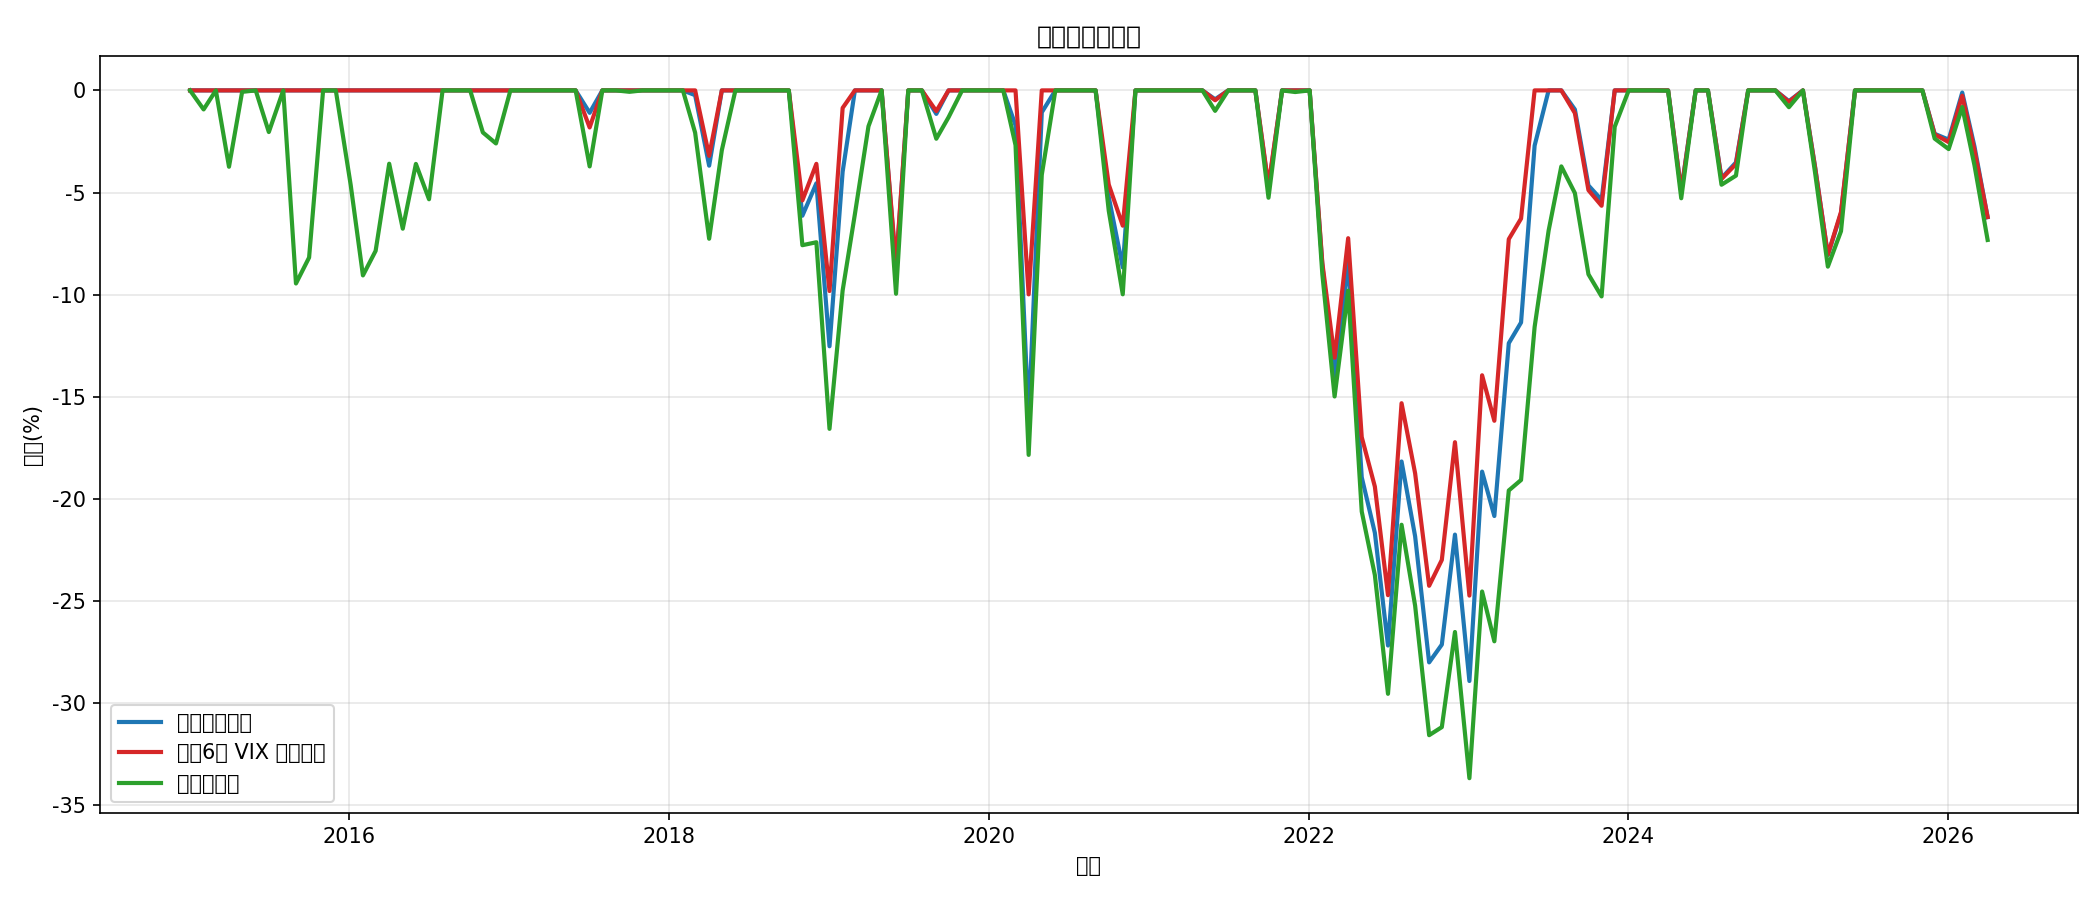
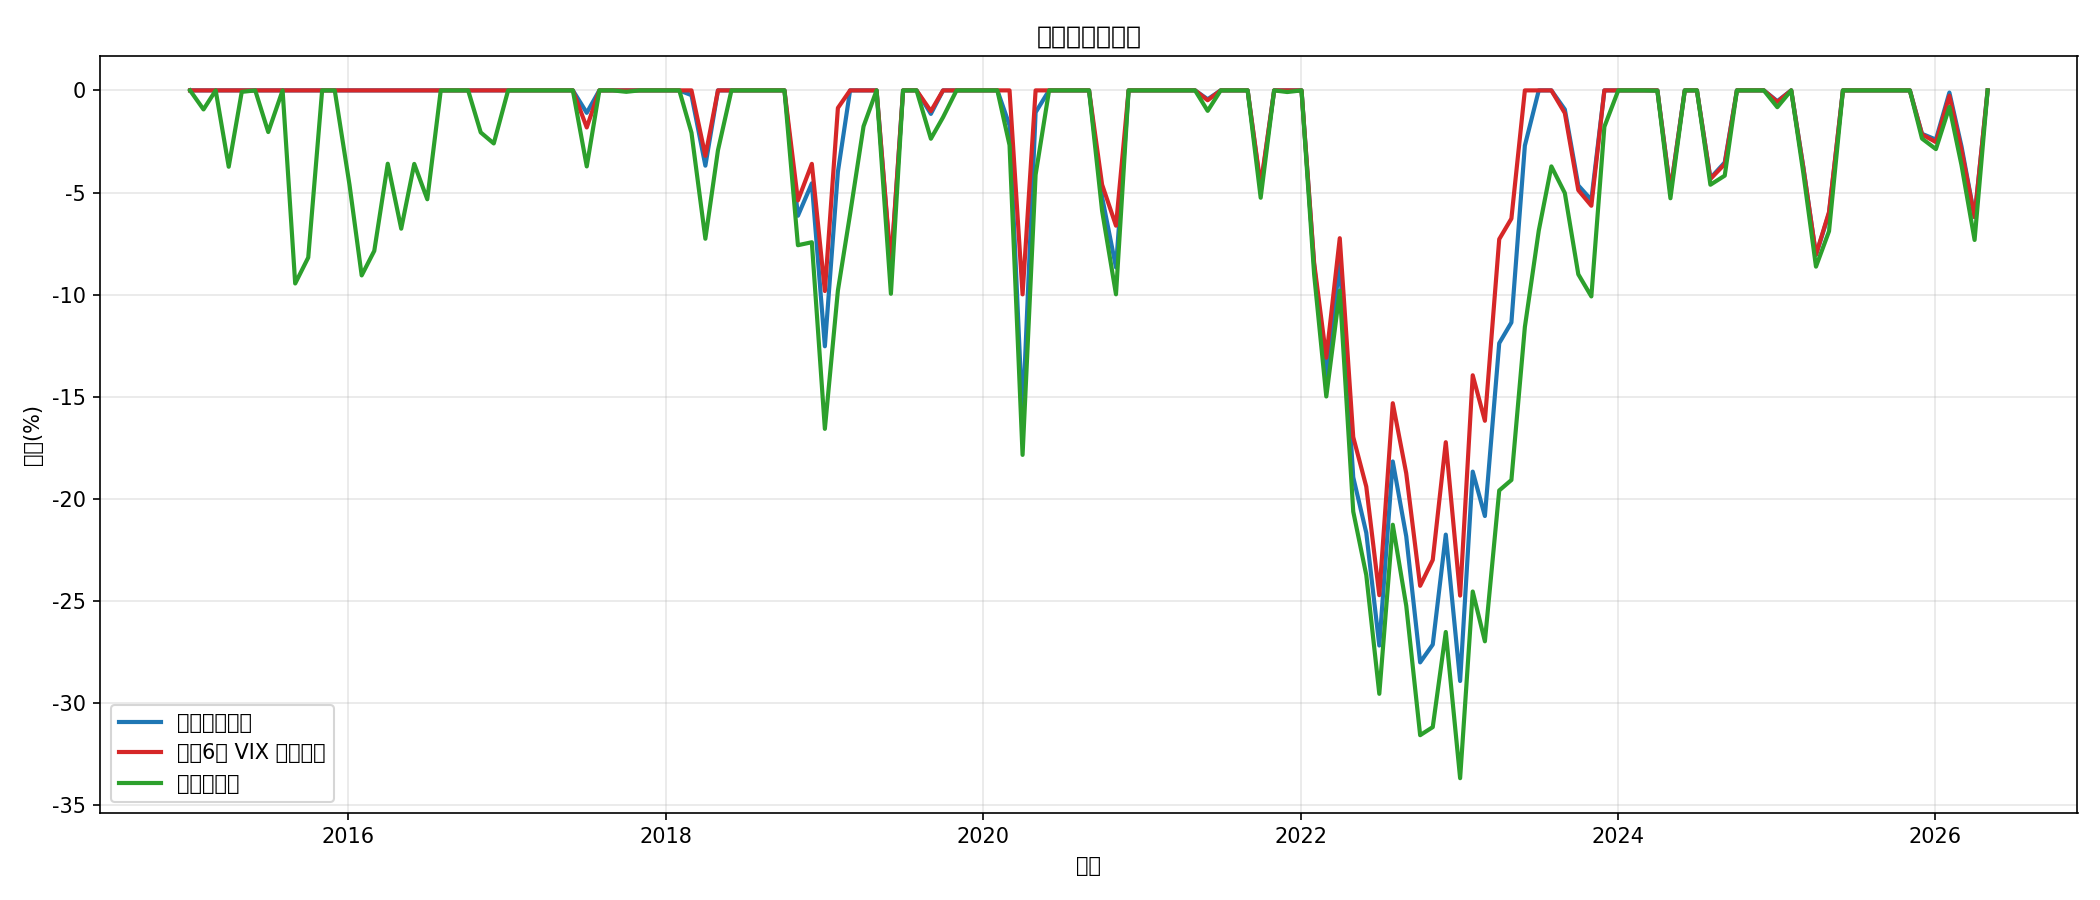
自动更新 VIX-纳斯达克100定投回测报告 [2026-06-01]

diff --git a/05-策略框架/VIX-纳斯达克100定投策略/backtest_report.md b/05-策略框架/VIX-纳斯达克100定投策略/backtest_report.md
@@ -1,6 +1,6 @@
 # VIX-纳斯达克100定投策略回测报告（同总投入口径）
 
-> **生成时间**: 2026-05-01 09:25
+> **生成时间**: 2026-06-01 13:27
 > **数据范围**: 2015-01-01 至今
 > **标的**: QQQ (Invesco QQQ Trust - 纳斯达克100 ETF)
 > **恐慌指数**: ^VIX (CBOE Volatility Index)
@@ -9,18 +9,18 @@
 
 ## 回测前提（关键）
 
-- 三种策略 **总投入严格一致**：`$136,000`
+- 三种策略 **总投入严格一致**：`$137,000`
 - 普通定投：每月固定 `$1,000`
-- VIX等额定投：按6档倍数分配，单位投入约 `$552.85`，总额仍为 `$136,000`
+- VIX等额定投：按6档倍数分配，单位投入约 `$553.54`，总额仍为 `$137,000`
 - 一次性满仓：首月一次性投入全部资金
 
 ## 排名维度参考
 
 | 策略 | 总投入 | 期末资产 | 总收益率 | 复合年化(IRR) | 最大回撤 |
 |------|--------|----------|----------|---------------|----------|
-| 普通固定定投 | $136,000 | $403,258.34 | 196.51% | 18.22% | 28.91% |
-| 精细 6 档 VIX 等额定投 | $136,000 | $379,455.46 | 179.01% | 18.24% | 24.73% |
-| 一次性满仓 | $136,000 | $839,445.49 | 517.24% | 17.57% | 33.67% |
+| 普通固定定投 | $137,000 | $466,260.92 | 240.34% | 20.29% | 28.91% |
+| 精细 6 档 VIX 等额定投 | $137,000 | $439,174.82 | 220.57% | 20.44% | 24.73% |
+| 一次性满仓 | $137,000 | $975,635.14 | 612.14% | 18.92% | 33.67% |
 
 ## VIX 6档规则
 
@@ -34,8 +34,8 @@
 | >= 40 | 8.0x | 罕见恐慌 |
 
 ### 执行统计
-- 定投月数：136
-- 触发加仓月数（>1x）：91
+- 定投月数：137
+- 触发加仓月数（>1x）：92
 - 高恐慌月数（>=5x）：9
 
 ## 图表
